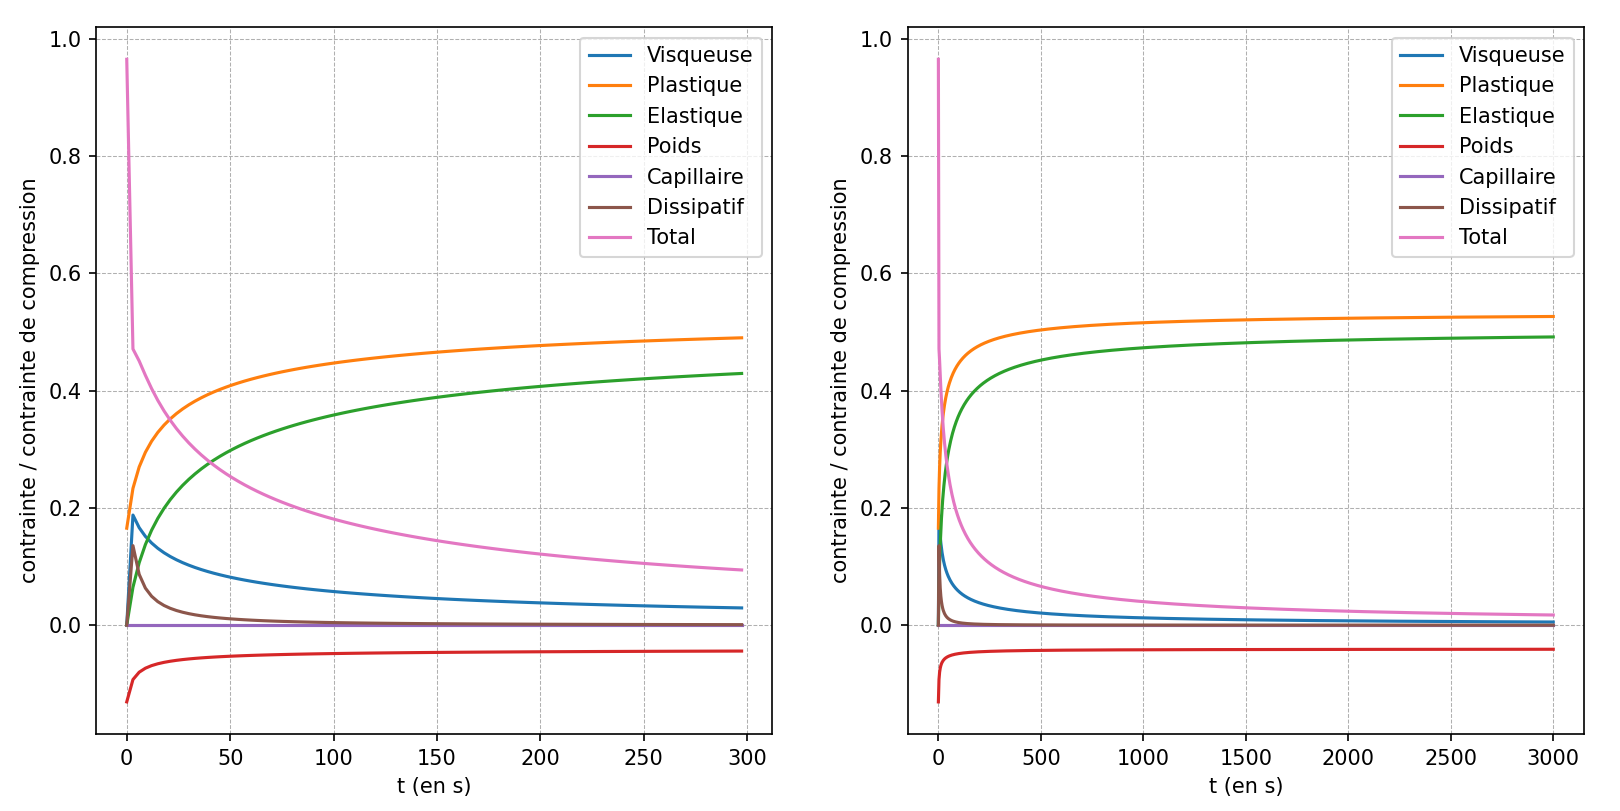
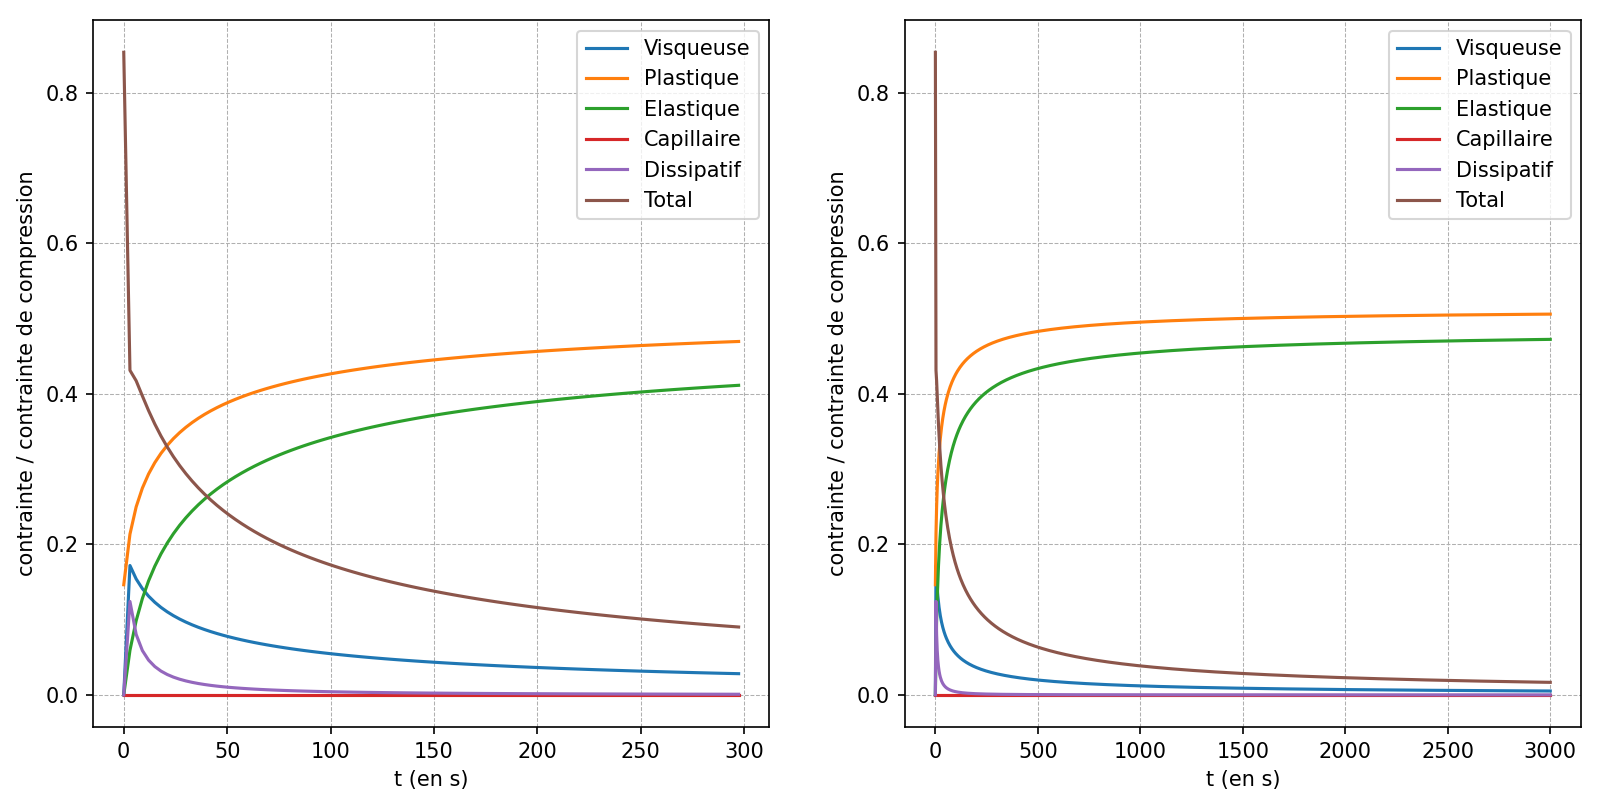
normalisé par tauComp + tauPoids

diff --git a/modeleKV/ContributionContraintes_Gliss.py b/modeleKV/ContributionContraintes_Gliss.py
@@ -61,6 +61,7 @@ def modeleKV_solve(
             gamma_p = a * Uk / Rk
 
             tauVisc = k * abs(gamma_p) ** m * np.sign(gamma_p)
+            # tauPlas = tau0
             tauElas = G * Gammak
             tauPoids = -rho * g * h0 * (r0 / Rk) ** 2
             tauComp = -M * g / (np.pi * Rk)
@@ -70,8 +71,8 @@ def modeleKV_solve(
             tauT = tauVisc + tau0 + tauElas + tauPoids + tauComp + tauCapi + tauDi
 
             Contraintes.append(
-                np.array((tauVisc, tau0, tauElas, tauPoids, tauCapi, tauDi, -tauT))
-                / abs(tauComp)
+                np.array((tauVisc, tau0, tauElas, tauCapi, tauDi, -tauT))
+                / abs(tauComp + tauPoids)
             )
 
         return np.array(Contraintes)
@@ -129,7 +130,6 @@ if __name__ == "__main__":
             "Visqueuse",
             "Plastique",
             "Elastique",
-            "Poids",
             "Capillaire",
             "Dissipatif",
             "Total",

diff --git a/modeleKV/ContributionContraintes.py b/modeleKV/ContributionContraintes.py
@@ -70,8 +70,8 @@ def modeleKV_solve(
             tauT = tauVisc + tau0 + tauElas + tauPoids + tauComp + tauCapi + tauDi
 
             Contraintes.append(
-                np.array((tauVisc, tau0, tauElas, tauPoids, tauCapi, tauDi, -tauT))
-                / abs(tauComp)
+                np.array((tauVisc, tau0, tauElas, tauCapi, tauDi, -tauT))
+                / abs(tauComp + tauPoids)
             )
 
         return np.array(Contraintes)
@@ -129,7 +129,6 @@ if __name__ == "__main__":
             "Visqueuse",
             "Plastique",
             "Elastique",
-            "Poids",
             "Capillaire",
             "Dissipatif",
             "Total",
